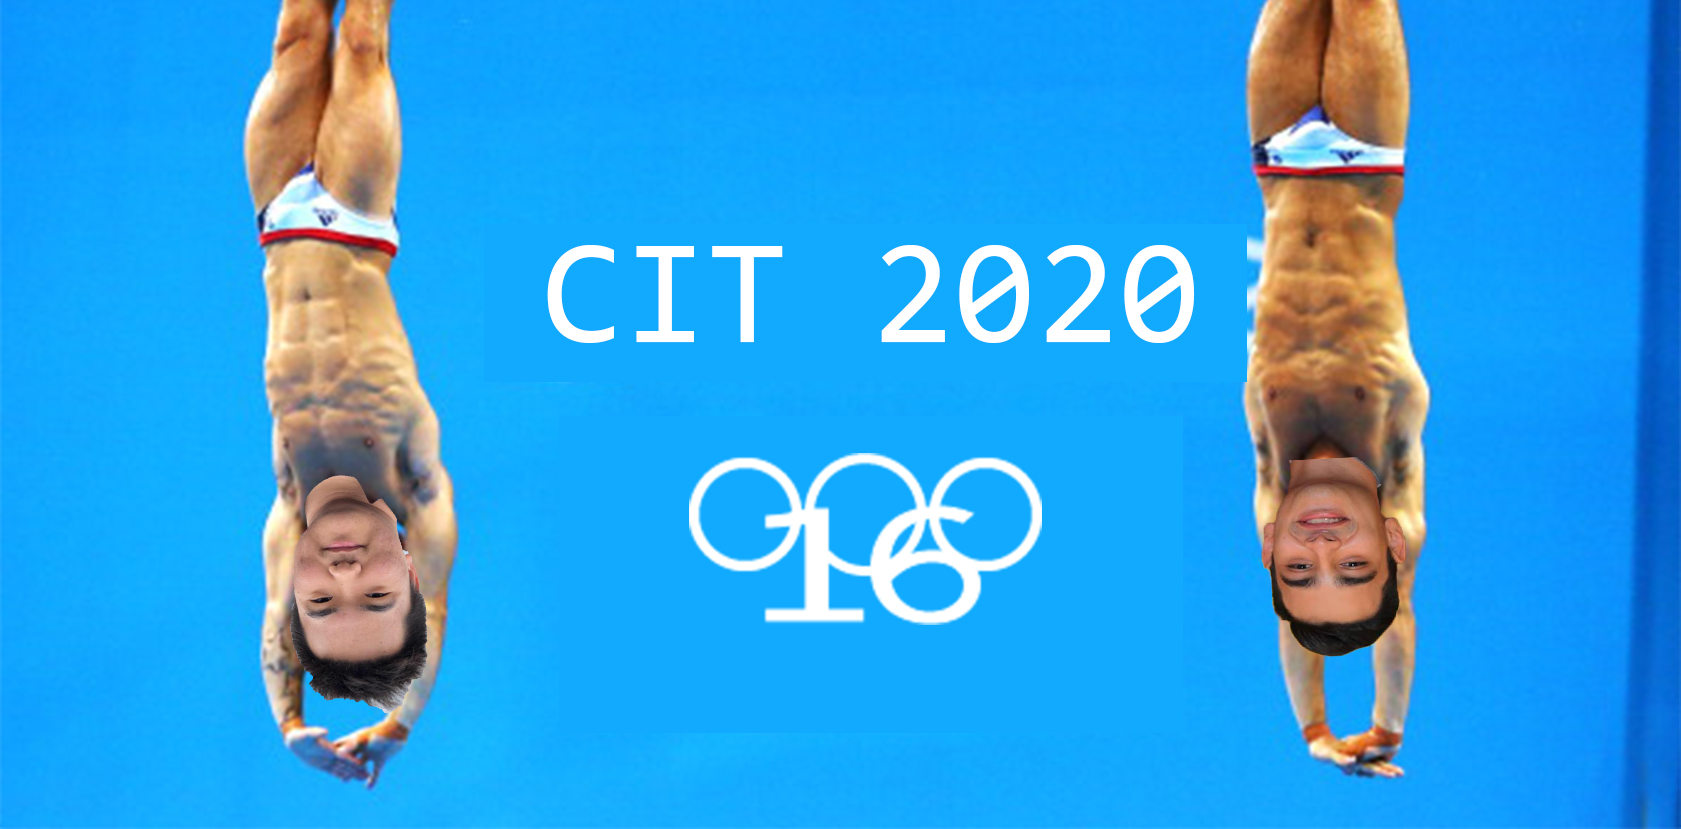
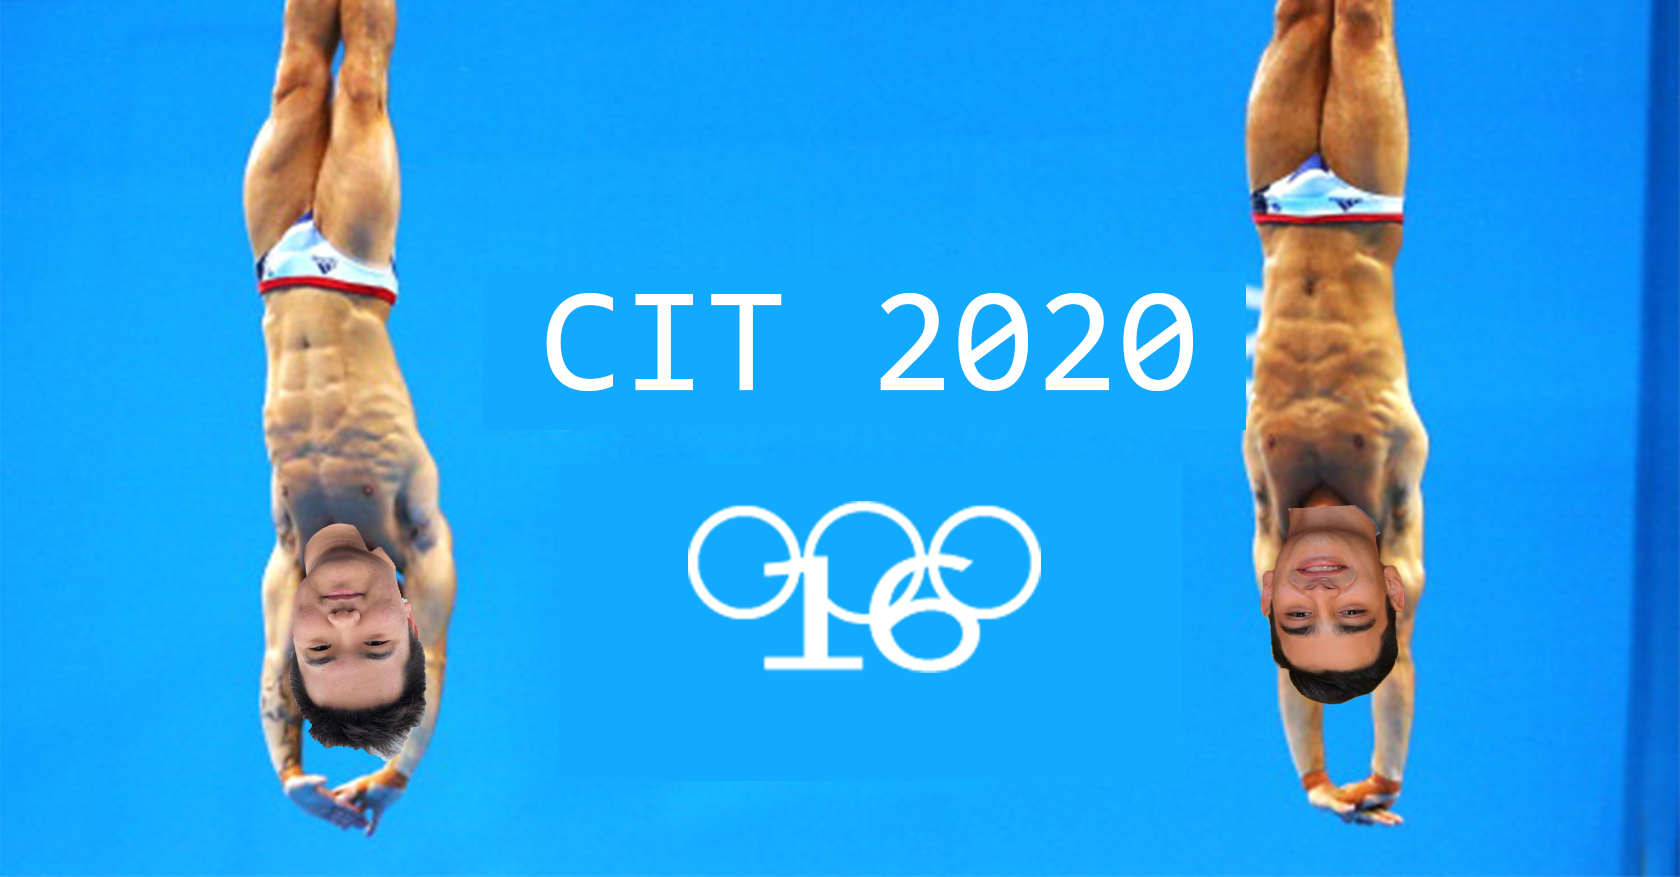
fun stuff

diff --git a/css/staff.css b/css/staff.css
@@ -214,7 +214,7 @@
 }
 
 #akopplin {
-  background: url("../staff/staff_img/simone-action.png") no-repeat;
+  background: url("../staff/staff_img/andrew-athlete.jpg") no-repeat;
   background-size: cover;
   background-position: left top;
   background-repeat: no-repeat;
@@ -470,7 +470,7 @@
 }
 
 #klam4 {
-  background: url("../staff/staff_img/simone-action.png") no-repeat;
+  background: url("../staff/staff_img/kalvin-athlete.png") no-repeat;
   background-size: cover;
   background-position: left top;
   background-repeat: no-repeat;
